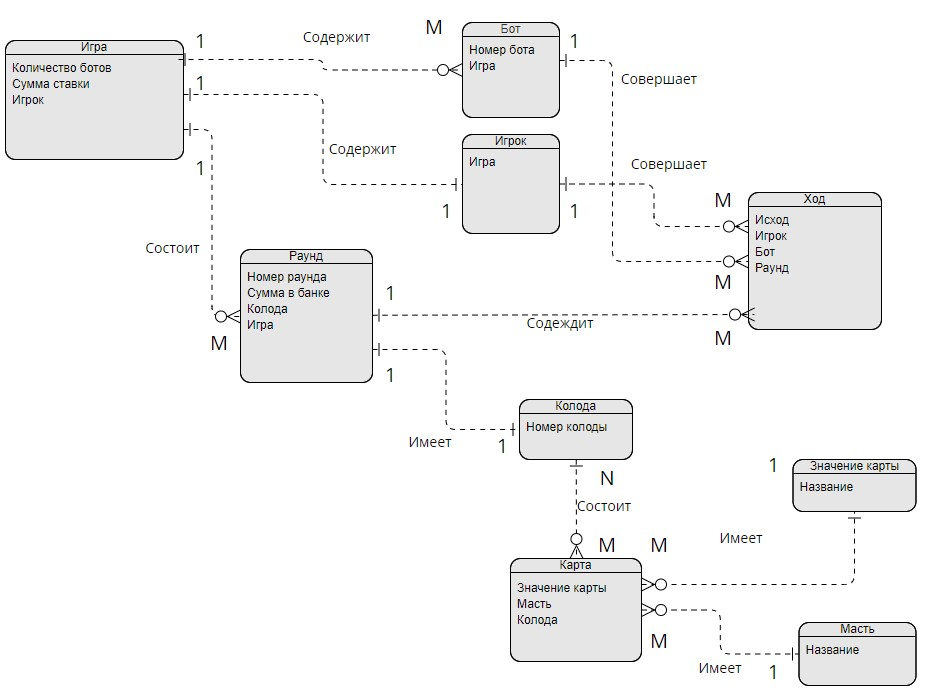
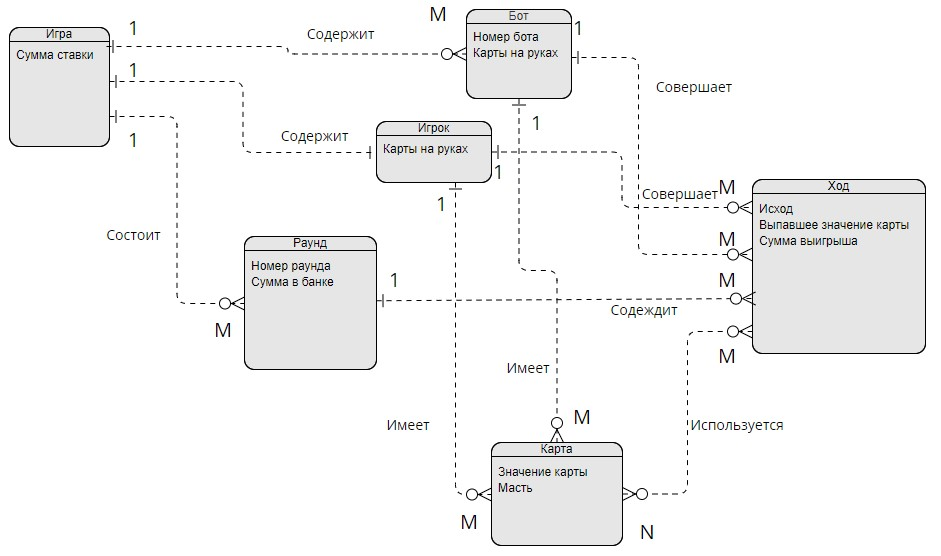
lab_2_edit

diff --git a/lab_2/lab_2.md b/lab_2/lab_2.md
@@ -9,58 +9,38 @@ ___
 ### Игра
 сущность Игра - среда, в которой происходит игровой процесс
 #### Свойства:
-* Количество ботов
 * Сумма ставки - количество фишек, которые кладут в банк игрок и боты в начале каждого раунда
-* Игрок - ссылка на сущность Игрока
 
 ### Игрок
 Сущность Игрок - означает реального (живого) пользователя, который принимает участие в игровом процессе
 #### Свойства:
-* Игра - ссылка на сущност Игры
+* Карты на руках - 2 карты, которые выдаются игроку в каждом раунде
 
 ### Бот
 Сущность Бот - означает искусственного игрока, который принимает участие в игровом процессе по заданному алгоритму
 #### Свойства:
 * Номер бота
-* Игра - ссылка на сущность Игры
+* Карты на руках - 2 карты, которые выдаются игроку в каждом раунде
 
 ### Раунд
 Сущность Раунд - означает игровой цикл, в процессе которого каджый игрок совершает свой ход. В начале каждого раунда игроки вносят заданную сумму в банк
 #### Свойства:
 * Номер раунда
 * Сумма в банке
-* Колода - ссылка на сущность Колоды
-* Игра - ссылка на сущность Игры
 
 ### Ход
 Сущность Ход - означает процесс хода каждого игрока во время раунда
 #### Свойства:
 * Исход - результат хода
-* Игрок - ссылка на Игрока
-* Бот - ссылка на Бота
-* Раунд - ссылка на Раунд
-
-### Колода
-Сущность Колода - означает последовательность карт, которые используются во время раунда
-#### Свойства
-* Номер колоды
+* Выпавшее значение карты
+* Сумма выйгрыша (если проигрыш, то сумма выйгрыша = 0)
 
 ### Карта
 Сущность Карта - означает игровую карту определенного значения и масти
 #### Свойства:
-* Значение карты - ссылка на судность Значение карты
-* Масть - ссылка на сущность Масть 
-* Колода - ссылка на Колоду
+* Значение карты
+* Масть
 
-### Значение карты
-Сущность Значение карты - означает значение карты от 6 до туза
-#### Свойства:
-* Название - название значения
-
-### Масть
-Сущность Масть - означает вид масти между "Вини", "Крести", "Черви", "Буби"
-#### Свойства
-* Название - название вида масти
 
 ## Связи
 
@@ -82,14 +62,11 @@ ___
 ### Раунд - Ход
 Во время раунда происходит один или более Ходов, один Ход всегда содержится в одном Раунде
 
-### Раунд - Колода
-В одном раунде всегда одна Колода, одна Колода всегда используется только в рамках одного Раунда
+### Карта - Игрок
+Игрок имеет 2 Карты в каждом раунде, одна Карта может быть только у одного Игрока
 
-### Колода - Карта
-Колода состоит из множества Карт, одна Карта может находиться в нескольких Колодах
+### Карта - Бот
+Бот имеет 2 Карты в каждом раунде, одна Карта может быть только у одного Бота
 
-### Карта - Значение карты
-У одной карты может быть одно Значеник карты, но одно значение карты может быть сразу у нескольких Карт
-
-### Карта - Масть
-У одной карты может быть одна Масть, но одна Масть может быть сразу у нескольких Карт
+### Карта - Ход
+На каждом Ходу может использоваться несколько Карт, одна Карта может быть использована в разных Ходах
